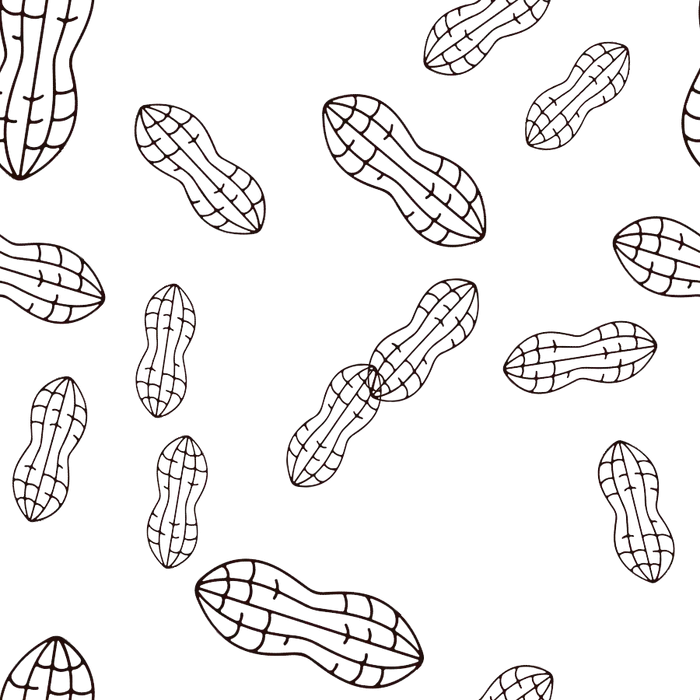
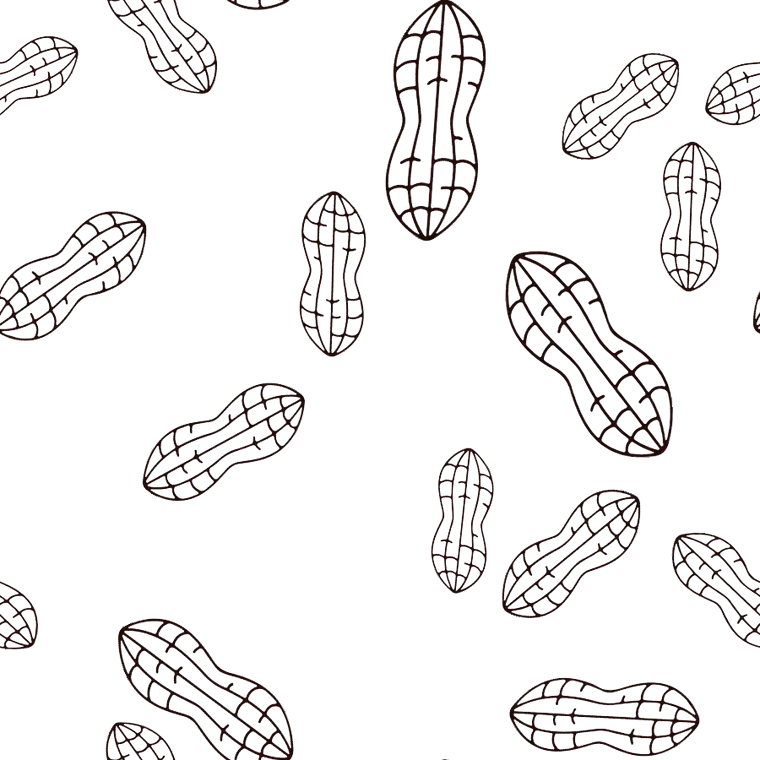
Patrón sin solapes, fondo que entra al scrollear, copy en tres líneas
Patrón: el generador rechazaba posiciones comparando radios de bounding
box, que para una cáscara alargada no describe la forma — de ahí los
maníes encimados. Ahora el test de solape es sobre el alpha real
proyectado con envolvente, más una dilatación de 14px de separación
mínima: cero intersecciones por construcción.

Fondo animado: PatronMani y PuenteColor pasan a cliente y entran con
whileInView, igual que los textos. Antes el fondo ya estaba puesto
cuando la sección aparecía y se sentía en dos tiempos. Medido por CDP,
las capas van 0 -> 0.12 -> 0.168 -> 0.17 y el degradé 0 -> 0.71 -> 1.

Copy de Fundador: cortes de línea fijos en tres líneas. El quiebre
natural dejaba "se llevan un" colgando solo.

Separación Características/Fundador: el hueco entre el botón y "Para los
primeros" era de 244px. pt-40 -> pt-28 en Fundador y pb 48 -> 24 en
Comprar lo dejan en 172px. El degradé sigue en 200px porque las máscaras
del cruce están calibradas contra esa altura.

diff --git a/src/components/ticket-fundador.tsx b/src/components/ticket-fundador.tsx
@@ -15,7 +15,7 @@ export function TicketFundador() {
   return (
     <section
       id="fundador"
-      className="relative overflow-hidden bg-dark px-6 pb-48 pt-40 text-paper"
+      className="relative overflow-hidden bg-dark px-6 pb-48 pt-28 text-paper"
     >
       {/* Las dos transiciones de esta sección viven acá adentro, no en las
           secciones vecinas: el patrón solo existe dentro de la sección, así
@@ -45,10 +45,16 @@ export function TicketFundador() {
           </h2>
         </Reveal>
 
+        {/* Cortes de línea fijos: el quiebre natural dejaba "se llevan un"
+            colgando solo y la frase perdía ritmo. */}
         <Reveal delay={0.1}>
-          <p className="mx-auto mt-8 max-w-xl text-lg leading-relaxed text-paper/85">
-            Todos los que compren durante las primeras 24 horas se llevan un{" "}
-            <span className="font-semibold text-gold-bright">Ticket de Fundador</span>.
+          <p className="mx-auto mt-8 text-lg leading-relaxed text-paper/85 sm:text-xl">
+            <span className="block">Todos los que compren</span>
+            <span className="block">durante las primeras 24 horas</span>
+            <span className="block">
+              se llevan un{" "}
+              <span className="font-semibold text-gold-bright">Ticket de Fundador</span>.
+            </span>
           </p>
         </Reveal>
       </div>

diff --git a/src/components/patron-mani.tsx b/src/components/patron-mani.tsx
@@ -1,3 +1,7 @@
+"use client";
+
+import { motion } from "motion/react";
+
 /**
  * Patrón de maníes de la tapa del frasco, usado como marca de agua de fondo.
  *
@@ -75,12 +79,17 @@ export function PatronMani({
   tamano?: number;
 }) {
   return (
-    <div
+    /* Entra al scrollear, como los textos: si el fondo ya estuviera puesto
+       cuando la sección aparece, la sección se sentiría en dos tiempos. */
+    <motion.div
       aria-hidden
       /* z-[2]: por encima del PuenteColor (z-[1]), si no el degradé tapa
          justo los maníes del cruce. El contenido va en z-10. */
       className="pointer-events-none absolute inset-0 z-[2] overflow-hidden"
-      style={{ opacity: opacidad }}
+      initial={{ opacity: 0 }}
+      whileInView={{ opacity: opacidad }}
+      viewport={{ once: true, margin: "-60px" }}
+      transition={{ duration: 1.1, ease: [0.16, 1, 0.3, 1] }}
     >
       <div
         className="absolute inset-0"
@@ -93,6 +102,6 @@ export function PatronMani({
           WebkitMaskImage: MASCARA[borde],
         }}
       />
-    </div>
+    </motion.div>
   );
 }

diff --git a/src/components/puente-color.tsx b/src/components/puente-color.tsx
@@ -1,3 +1,7 @@
+"use client";
+
+import { motion } from "motion/react";
+
 /**
  * Puente de color entre dos secciones contiguas.
  *
@@ -51,11 +55,18 @@ export function PuenteColor({
 }) {
   const direccion = posicion === "arriba" ? "to bottom" : "to top";
   return (
-    <div
+    /* El degradé también entra al scrollear, en sintonía con el patrón y los
+       textos: el fondo forma parte de la aparición de la sección, no es un
+       telón que ya estaba puesto. */
+    <motion.div
       aria-hidden
       className={`pointer-events-none absolute inset-x-0 z-[1] ${
         posicion === "arriba" ? "top-0" : "bottom-0"
       }`}
+      initial={{ opacity: 0 }}
+      whileInView={{ opacity: 1 }}
+      viewport={{ once: true, margin: "-60px" }}
+      transition={{ duration: 1.1, ease: [0.16, 1, 0.3, 1] }}
       style={{
         height: altura,
         background: `linear-gradient(${direccion}, ${paradas(COLOR[desde])})`,

diff --git a/src/components/comprar.tsx b/src/components/comprar.tsx
@@ -21,7 +21,7 @@ const CARACTERISTICAS = [
 
 export function Comprar() {
   return (
-    <section id="comprar" className="relative overflow-hidden px-6 pb-12 pt-6 sm:py-12">
+    <section id="comprar" className="relative overflow-hidden px-6 pb-6 pt-6 sm:pb-6 sm:pt-12">
       {/* Maníes en marrón, anclados al borde de abajo: así el patrón corta
           sobre una junta del tile y las cáscaras siguen en la sección
           siguiente en vez de reiniciarse. */}
